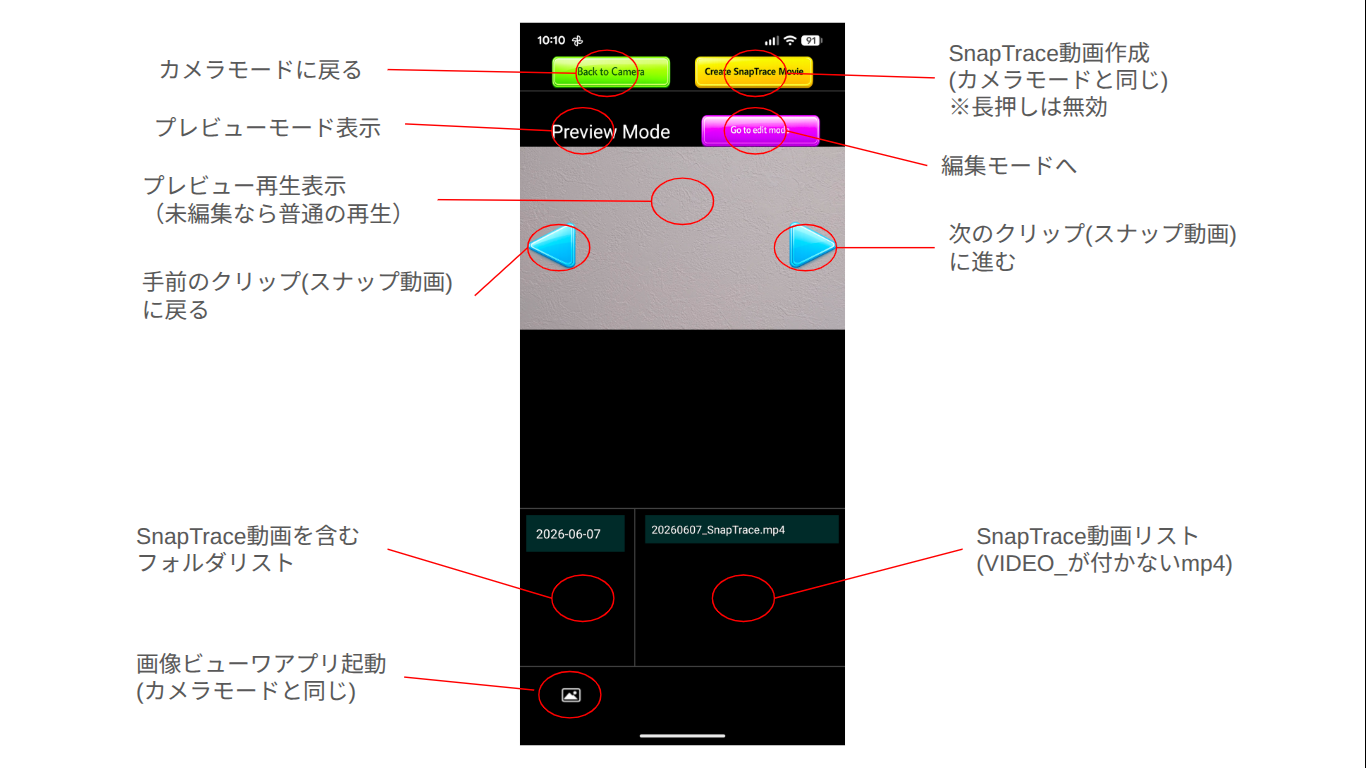
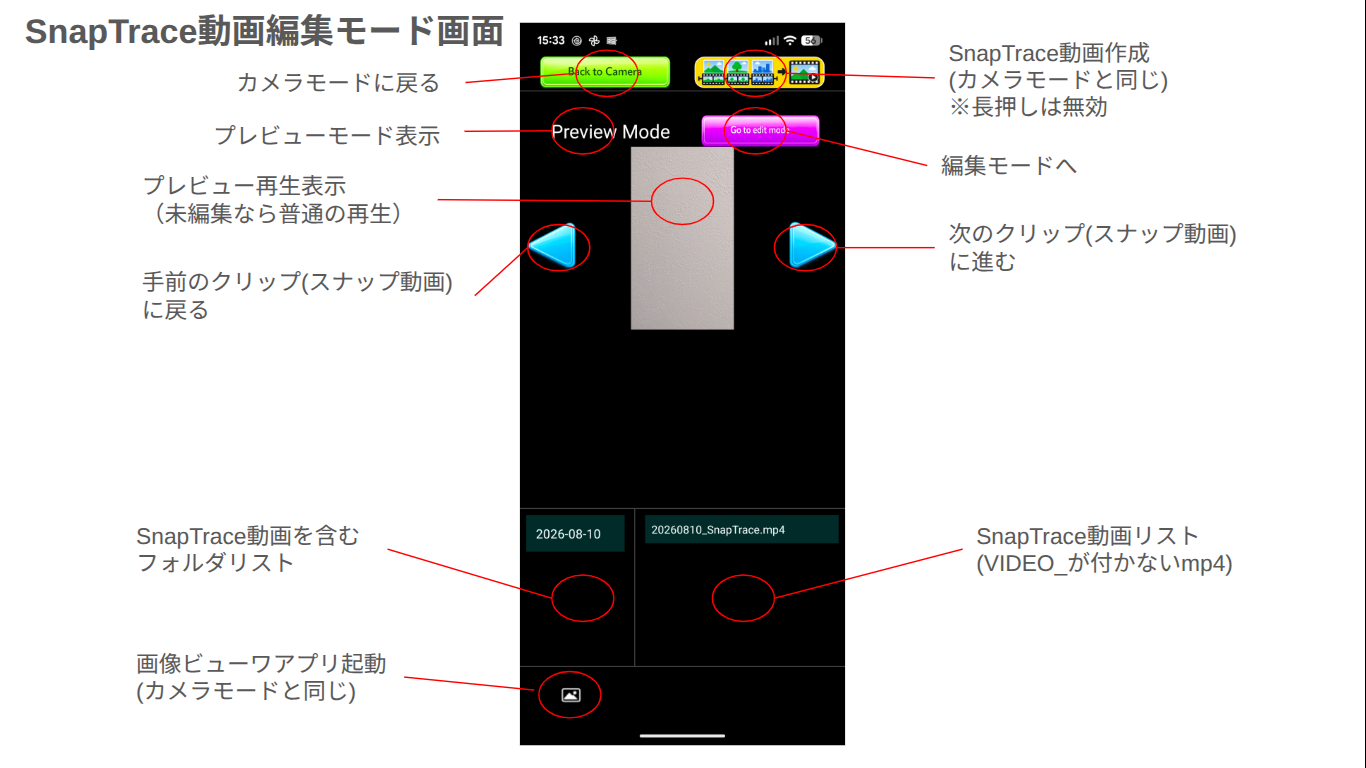
ボタン変更・トーチライト機能追加に伴う説明資料更新

diff --git a/docs/camera-features.md b/docs/camera-features.md
@@ -49,12 +49,12 @@
 
 #### ユーザー操作
 
-![BufferingButton](https://amayegak.github.io/snaptrace-site/images/buffering_button_125.png)
-![StartBufferingButton](https://amayegak.github.io/snaptrace-site/images/start_buffering_button_125.png)
+![BufferingButton](https://amayegak.github.io/snaptrace-site/images/buffering_off_image_button_125.png)
+![StartBufferingButton](https://amayegak.github.io/snaptrace-site/images/buffering_off_image_button_125.png)
 
-- "Buffering"ボタンが押されると、スナップ動画のバッファリングを停止する
-- バッファリングが停止すると、ボタン文字列を"Start Buffering"に変更する（色も変える）
-- "Start Buffering"ボタンが押されると、バッファリングを再開する
+- "Buffering ON"状態を示すボタンが押されると、スナップ動画のバッファリングを停止する
+- バッファリングが停止すると、"Buffering OFF"状態を示すボタンに変更する
+- Buffering OFF"状態を示すボタンが押されると、バッファリングを再開する
 
 #### スナップ動画記録中
 
@@ -124,7 +124,7 @@
 
 ## SnapTrace動画（一日のダイジェスト動画）作成
 
-![CreateSnapTraceMovieButton](https://amayegak.github.io/snaptrace-site/images/create_snaptrace_movie_button_125.png)
+![CreateSnapTraceMovieButton](https://amayegak.github.io/snaptrace-site/images/create_snaptrace_movie_image_button_125.png)
 
 ### "Create SnapTrace Movie"ボタンでSnapTrace動画作成を開始する
 
@@ -189,6 +189,24 @@
 - ピンチイン/ピンチアウト操作を受けズームイン/ズームアウトする機能を備える
 - ズームは、プレビュー画面、静止画、スナップ動画、通常動画に反映する
 
+## トーチライトボタン
+
+![Torchlight](https://amayegak.github.io/snaptrace-site/images/torchlight_on_button.png)
+
+- トーチライト消灯中を示し、押されるとトーチライトを点灯する
+
+![Torchlight](https://amayegak.github.io/snaptrace-site/images/torchlight_off_button.png)
+
+- トーチライト点灯状態を示し、押されるとトーチライトを消灯する
+  - トーチライト点灯状態でデバイス縦横姿勢変更・動画記録開始/停止が行われると、トーチライトを一旦消して再点灯する
+  - トーチライト点灯状態で動画編集モード画面に遷移すると消灯する
+    - 再びカメラモードに戻ると点灯する
+  - トーチライト点灯状態でトーチライトを備えないカメラに切り替えると消灯する
+    - 再びトーチライトを備えるカメラに切り替えると点灯する
+- **トーチライトを備えないカメラでは点灯しない**
+  - 点灯しないが"点灯状態"となる
+  - トーチライトを備えるカメラに切り替えると点灯する
+
 ## カメラ切り替え
 
 ![FlipCamera](https://amayegak.github.io/snaptrace-site/images/flip_camera.png)
@@ -199,7 +217,7 @@
 
 ## 画像ビューワアプリ起動
 
-![ExpComp](https://amayegak.github.io/snaptrace-site/images/image_icon_36.png)
+![ImageViewerApp](https://amayegak.github.io/snaptrace-site/images/image_viewer_app.png)
 
 - デバイス縦姿勢時の画面左下に画像ビューワアプリ起動操作部を備える
 - 初回操作時は、デバイスにインストールされている画像ビューワアプリの選択画面を表示する
